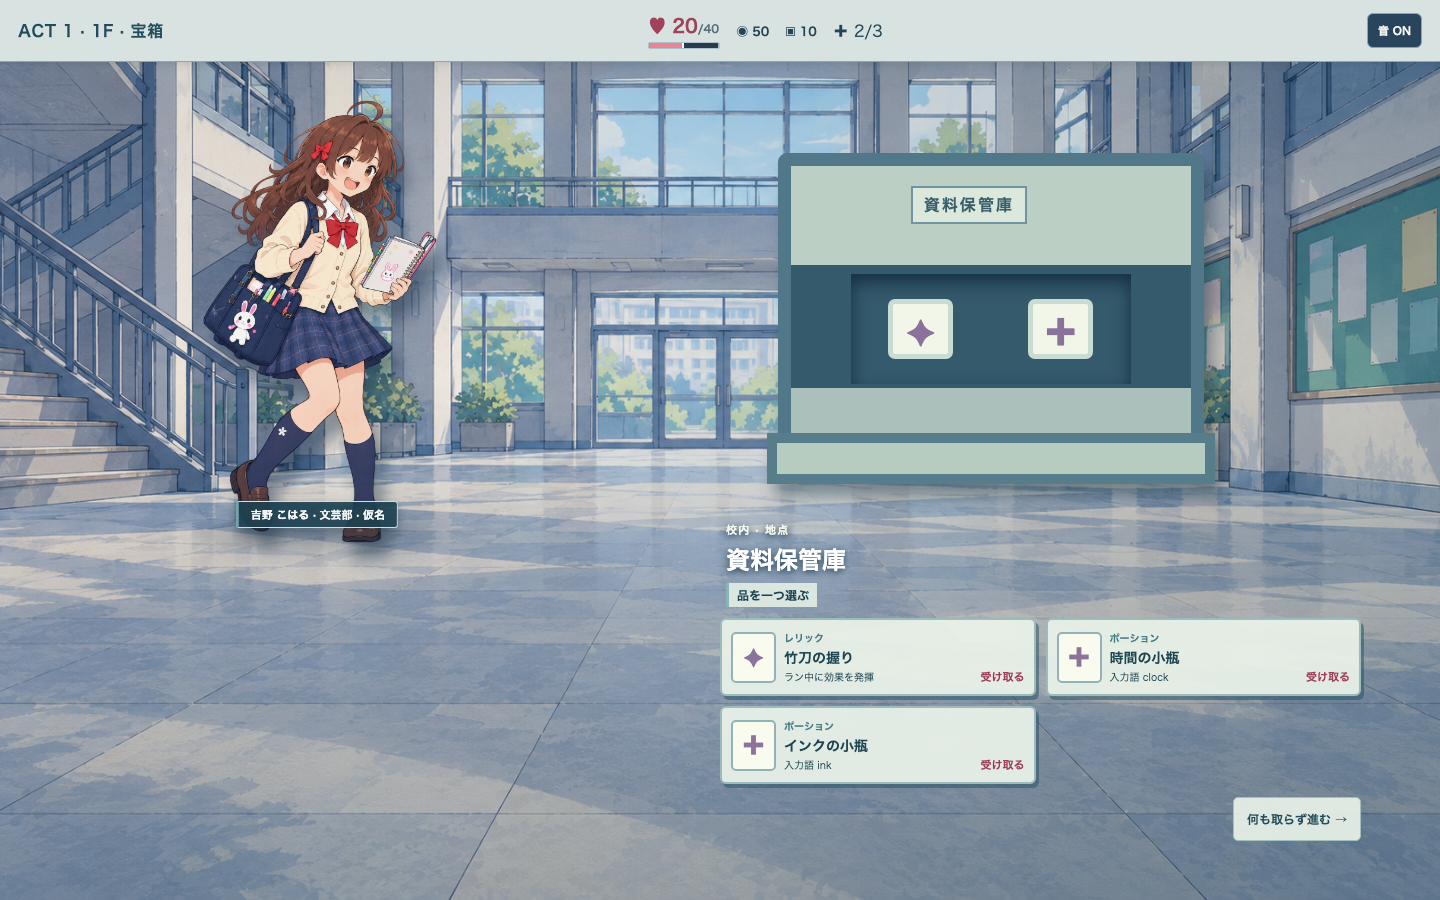
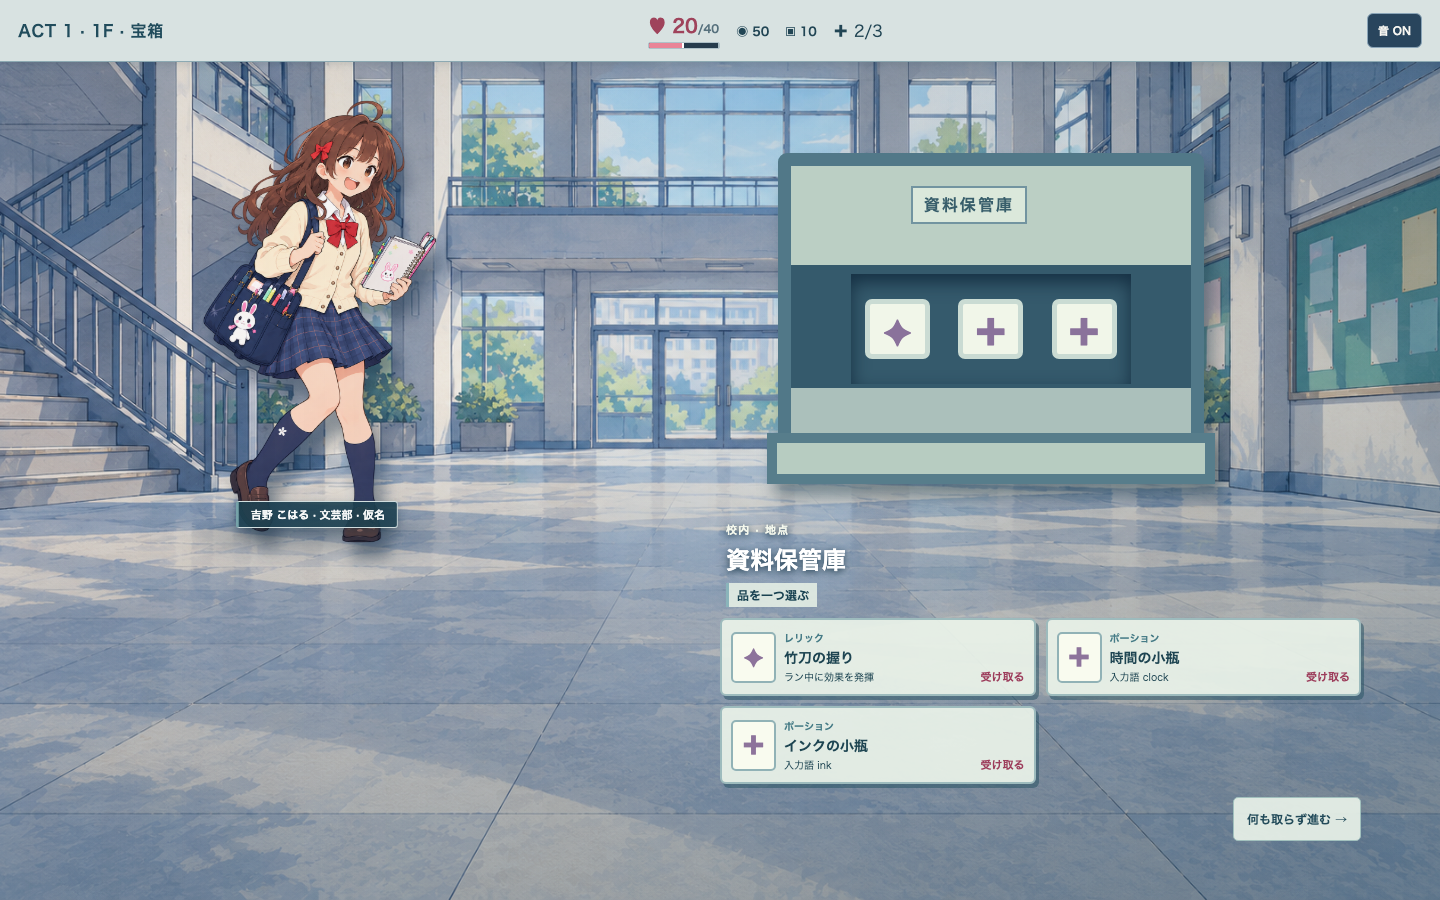
docs: capture latest location screens and treasure claim state

Changed region(s): [[0.5938, 0.3111, 0.7812, 0.4044]]

diff --git a/docs/design/issue286-location-stage-review.md b/docs/design/issue286-location-stage-review.md
@@ -19,6 +19,8 @@
 | イベント | [実画面](previews/issue286-live-event-1440.png) | [実画面](previews/issue286-live-event-1024.png) | 状況文、実選択肢と効果 |
 | Act 3 休憩 | — | [実画面](previews/issue286-live-rest-1024-act3.png) | Act 3背景の中でGameShellと人物を維持 |
 
+宝箱取得の局所反応は、実オファー順と保管箱内の物体を1対1で結び、選んだ物体と選択札だけを光らせて持ち上げ、[取得直後の実画面](previews/issue286-live-treasure-claim-1440.png)の状態を経て経路上に取得名を残す。ドメイン処理と保存は反応の開始時に確定し、途中で再読込しても二重取得しない。低刺激では移動を止め、静止したハイライトと短い結果文で同じ因果を伝える。現在の物体は記号付きCSS仮形状であり、固有アイテム絵は #304 に依存する。
+
 実画面では `.stage`、`.hero-art`、`.typing-input` のDOM同一性を経路→地点で確認した。地点の保存・再読込で `RunSession.screen` と背景アートIDが一致し、地点選択後に経路へ戻る。購買の購入だけは同じ地点に留まり、残額・購入済みを反映する。戦闘入力要素は地点では無効、独立したタイマーを描かない。これらは自動E2Eの観測範囲であり、初見理解・実機iPad・最終アートの受入ではない。
 
 ## 配置契約候補
@@ -42,6 +44,6 @@
 
 ## この候補で未解決のこと
 
-- CSS 小物は構図確認用の仮形状で、統一絵柄の最終制作ではない。背景も全地点で同じ仮アトリウムを使っており、各地点の校内空間の差は採用前に描き分ける。
+- CSS 小物は構図確認用の仮形状で、統一絵柄の最終制作ではない。宝箱/購買/休憩/イベント別原画・商品IDと原本/派生台帳は #304 に分離した。静的案の背景は全地点で同じ仮アトリウムを使い、本編は #288 の地点別候補背景を選ぶ。
 - 静的HTMLの選択肢は操作できない。本編の実選択はクリック/キーボード/保存に接続したが、全イベントの長文・全所持枠・全数値の組合せ、演出と音、1〜3人味方編成の重なり、実機iPad、初見理解は未検証。
 - #261/#288 は独立Draftの依存PRであり、統合後のmain回帰と最終視覚受入は別に必要。
